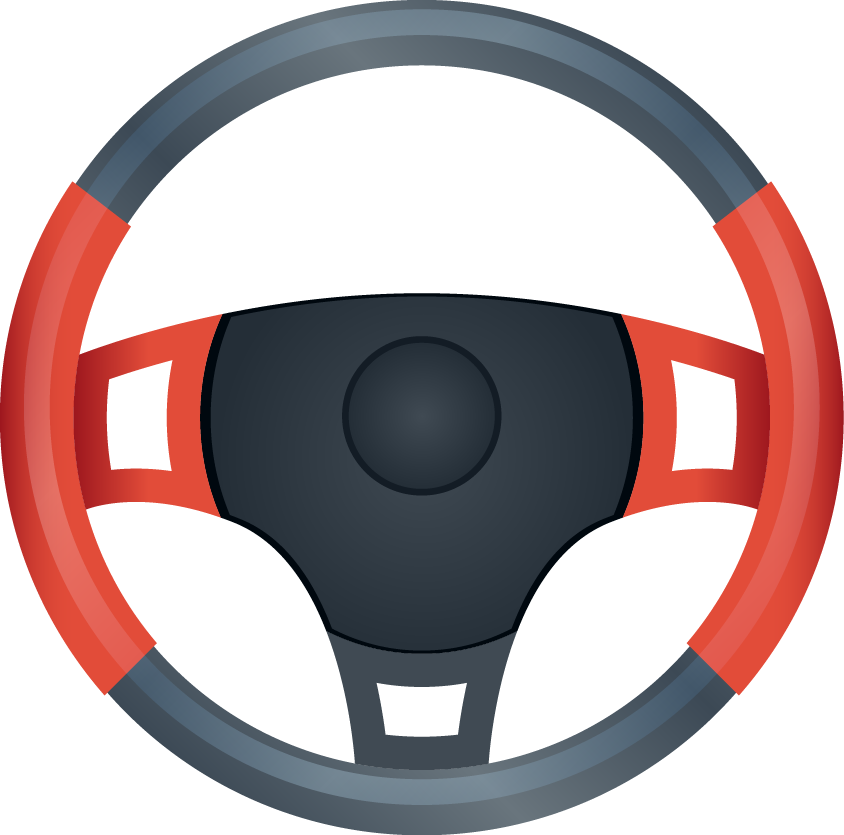
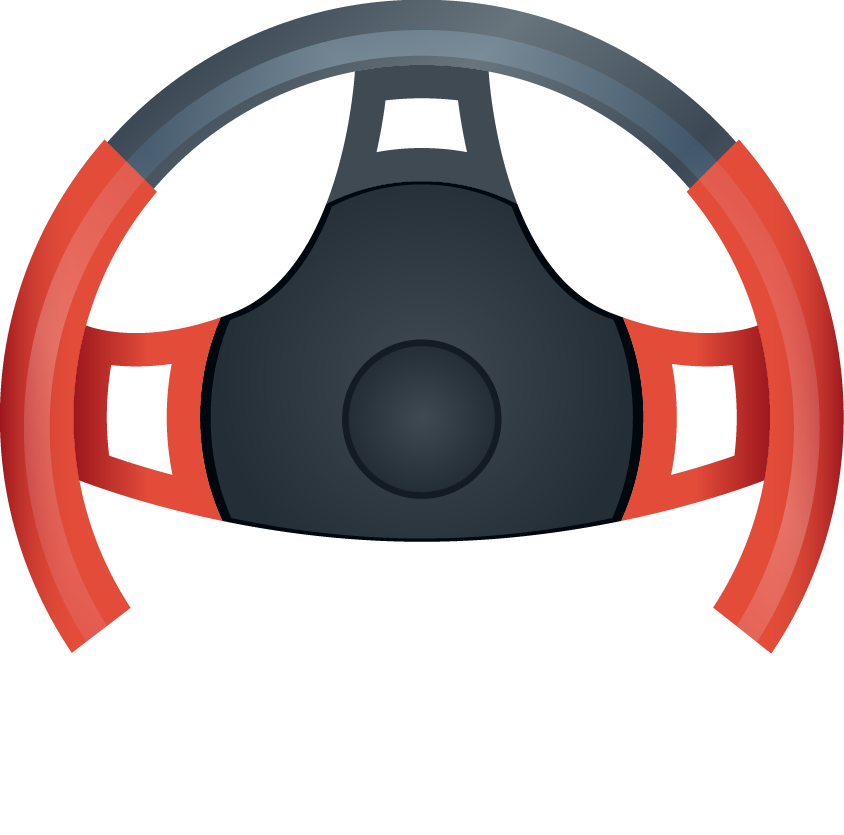
half steering wheel UI and steering logic

diff --git a/app/components/SteeringWheel.tsx b/app/components/SteeringWheel.tsx
@@ -24,20 +24,19 @@ export default function SteeringWheel({
   driveMode: "forward" | "reverse" | "stopped";
   onSteeringChange: (angle: number) => void;
 }) {
-  // Current animated steering angle (deg)
   const steeringAngle = useSharedValue(0);
-  // Track last angle we forwarded to JS to avoid excessive bridge traffic
   const lastSentAngle = useSharedValue(0);
-  const WHEEL_SIZE = 180; // px (matches image size)
+  const WHEEL_SIZE = 180; // px
   const HALF = WHEEL_SIZE / 2;
-  const MAX_ANGLE = 80; // clamp range
-  const BASE_SMOOTHING = 0.85; // Base smoothing factor when centered
-  const MIN_SMOOTHING = 0.5; // Minimum smoothing (maximum stickiness) at max angle
+  const MAX_ANGLE = 80;
+  const ROTATION_GAIN = 1; // multiply raw rotation delta (deg). >1 = more sensitive.
+  const PAN_GAIN = 0.8; // multiply pan-derived angle. >1 to make center more lively.
+  const CENTER_DIRECT_THRESHOLD = 12; // degrees: below this we apply almost direct movement
+  const INTERP_SMOOTHING = 0.55; // interpolation factor (0..1) when outside center zone; smaller => snappier
   const SEND_THRESHOLD_DEG = 0.5; // only propagate to JS when angle changes this much
 
-  // Use rotation gesture for natural wheel behavior while finger stays down.
   const cumulativeAngle = useSharedValue(0); // total accumulated angle before clamping
-  let lastRotation = 0; // JS shadow for wrap handling
+  let lastRotation = 0;
 
   const rotationGesture = Gesture.Rotation()
     .onBegin(() => {
@@ -45,40 +44,29 @@ export default function SteeringWheel({
     })
     .onUpdate((event) => {
       if (!device) return;
-      // event.rotation is radians relative to gesture start. We accumulate deltas each frame.
       const deltaRad = event.rotation - lastRotation;
       lastRotation = event.rotation;
       const deltaDeg = (deltaRad * 180) / Math.PI;
 
-      // Apply progressive resistance to delta based on current angle
       const currentAngleAbs = Math.abs(cumulativeAngle.value);
-      const resistanceFactor = 1 - (currentAngleAbs / MAX_ANGLE) * 0.7; // Reduce delta by up to 70% at max angle
-      const adjustedDelta = deltaDeg * Math.max(0.3, resistanceFactor); // Minimum 30% sensitivity
 
-      const proposed = cumulativeAngle.value + adjustedDelta;
+      const scaledDeltaDeg = deltaDeg * ROTATION_GAIN;
 
-      // Apply limits with smoother clamping
-      if (proposed > MAX_ANGLE) {
-        cumulativeAngle.value = MAX_ANGLE;
-      } else if (proposed < -MAX_ANGLE) {
-        cumulativeAngle.value = -MAX_ANGLE;
-      } else {
-        cumulativeAngle.value = proposed;
-      }
+      const proposed = cumulativeAngle.value + scaledDeltaDeg;
+      if (proposed > MAX_ANGLE) cumulativeAngle.value = MAX_ANGLE;
+      else if (proposed < -MAX_ANGLE) cumulativeAngle.value = -MAX_ANGLE;
+      else cumulativeAngle.value = proposed;
 
       const target = cumulativeAngle.value;
-      // Progressive stickiness - harder to move as angle increases
       const current = steeringAngle.value;
-      // Calculate dynamic smoothing inline (worklet-safe)
-      const normalizedAngle = Math.abs(current) / MAX_ANGLE; // 0 to 1
-      const stickinessMultiplier = normalizedAngle * normalizedAngle; // Quadratic curve for more dramatic effect
-      const dynamicSmoothing =
-        BASE_SMOOTHING -
-        (BASE_SMOOTHING - MIN_SMOOTHING) * stickinessMultiplier;
-      const newAngle = current + (target - current) * dynamicSmoothing;
+      let newAngle: number;
+      if (Math.abs(target) < CENTER_DIRECT_THRESHOLD) {
+        newAngle = target;
+      } else {
+        newAngle = current + (target - current) * INTERP_SMOOTHING;
+      }
       steeringAngle.value = newAngle;
 
-      // Send updates more frequently for smoother control
       if (Math.abs(newAngle - lastSentAngle.value) >= SEND_THRESHOLD_DEG) {
         lastSentAngle.value = newAngle;
         runOnJS(onSteeringChange)(newAngle);
@@ -86,18 +74,9 @@ export default function SteeringWheel({
     })
     .onEnd(() => {
       if (!device) return;
-      const startAngle = steeringAngle.value;
-      const angleAbs = Math.abs(startAngle);
-
-      // Progressive spring strength - stronger return force from larger angles
-      const baseStiffness = 120;
-      const baseDamping = 15;
-      const stiffnessMultiplier = 1 + (angleAbs / MAX_ANGLE) * 1.5; // Up to 2.5x stronger
-      const dampingMultiplier = 1 + (angleAbs / MAX_ANGLE) * 0.5; // Slightly more damped
-
       steeringAngle.value = withSpring(0, {
-        damping: baseDamping * dampingMultiplier,
-        stiffness: baseStiffness * stiffnessMultiplier,
+        damping: 14,
+        stiffness: 100,
         mass: 1,
       });
       cumulativeAngle.value = 0;
@@ -106,32 +85,29 @@ export default function SteeringWheel({
     })
     .enabled(!!device);
 
-  // Add pan gesture for additional touch responsiveness
   const panGesture = Gesture.Pan()
+    .onBegin(() => {})
     .onUpdate((event) => {
       if (!device) return;
-      // Convert horizontal pan to rotation angle
-      const deltaX = event.translationX;
 
-      // Progressive resistance - reduce sensitivity as we move further from center
+      const rawDeltaX = event.translationX;
       const currentAngleAbs = Math.abs(steeringAngle.value);
-      const resistanceFactor = 1 - (currentAngleAbs / MAX_ANGLE) * 0.6; // Reduce sensitivity by up to 60%
-      const scaleFactor = 0.8 * Math.max(0.4, resistanceFactor); // Minimum 40% sensitivity
 
+      const baseTargetAngle = rawDeltaX * PAN_GAIN;
       const targetAngle = Math.max(
         -MAX_ANGLE,
-        Math.min(MAX_ANGLE, deltaX * scaleFactor)
+        Math.min(MAX_ANGLE, baseTargetAngle)
       );
 
-      // Progressive stickiness for pan gesture too
       const current = steeringAngle.value;
-      // Calculate dynamic smoothing inline (worklet-safe)
-      const normalizedAngle = Math.abs(current) / MAX_ANGLE; // 0 to 1
-      const stickinessMultiplier = normalizedAngle * normalizedAngle; // Quadratic curve for more dramatic effect
-      const dynamicSmoothing =
-        BASE_SMOOTHING -
-        (BASE_SMOOTHING - MIN_SMOOTHING) * stickinessMultiplier;
-      const newAngle = current + (targetAngle - current) * dynamicSmoothing;
+
+      let newAngle;
+      if (Math.abs(targetAngle) < CENTER_DIRECT_THRESHOLD) {
+        newAngle = targetAngle;
+      } else {
+        newAngle = current + (targetAngle - current) * INTERP_SMOOTHING;
+      }
+
       steeringAngle.value = newAngle;
       cumulativeAngle.value = newAngle;
 
@@ -142,18 +118,9 @@ export default function SteeringWheel({
     })
     .onEnd(() => {
       if (!device) return;
-      const startAngle = steeringAngle.value;
-      const angleAbs = Math.abs(startAngle);
-
-      // Progressive spring strength for pan gesture too
-      const baseStiffness = 120;
-      const baseDamping = 15;
-      const stiffnessMultiplier = 1 + (angleAbs / MAX_ANGLE) * 1.5;
-      const dampingMultiplier = 1 + (angleAbs / MAX_ANGLE) * 0.5;
-
       steeringAngle.value = withSpring(0, {
-        damping: baseDamping * dampingMultiplier,
-        stiffness: baseStiffness * stiffnessMultiplier,
+        damping: 15,
+        stiffness: 120,
         mass: 1,
       });
       cumulativeAngle.value = 0;
@@ -162,7 +129,6 @@ export default function SteeringWheel({
     })
     .enabled(!!device);
 
-  // Combine both gestures for maximum responsiveness
   const combinedGesture = Gesture.Simultaneous(
     rotationGesture.simultaneousWithExternalGesture(simultaneousHandlers),
     panGesture.simultaneousWithExternalGesture(simultaneousHandlers)
@@ -174,23 +140,27 @@ export default function SteeringWheel({
 
   return (
     <View style={[styles.leftPanel, { justifyContent: "center" }]}>
-      <View style={[styles.steeringWheelContainer, { marginRight: 40 }]}>
+      <View
+        style={[
+          styles.steeringWheelContainer,
+          { marginRight: 40, marginTop: 50 },
+        ]}
+      >
         <GestureDetector gesture={combinedGesture}>
           <Animated.View style={[styles.steeringWheel, animatedStyle]}>
             <Image
-              source={require("../../assets/images/pngegg.png")}
+              source={require("../../assets/images/steering-wheel.png")}
               style={{
                 width: WHEEL_SIZE,
                 height: WHEEL_SIZE,
                 borderRadius: HALF,
                 borderWidth: 12,
-                borderColor: "black",
+                borderColor: "transparent",
                 backgroundColor: "transparent",
                 alignItems: "center",
                 justifyContent: "center",
                 opacity: device ? 1 : 0.5,
                 resizeMode: "contain",
-                tintColor: "black",
               }}
             />
             <View
@@ -204,6 +174,20 @@ export default function SteeringWheel({
             ></View>
           </Animated.View>
         </GestureDetector>
+        {/* Box covering the bottom part of the wheel to prevent interaction */}
+        <View
+          style={{
+            position: "absolute",
+            top: 85,
+            bottom: 0,
+            left: 0,
+            right: 0,
+            height: 70,
+            backgroundColor: "transparent", // Light gray background
+            zIndex: 10, // Make sure it sits above the wheel
+            pointerEvents: "auto", // This blocks touch events
+          }}
+        />
       </View>
     </View>
   );
